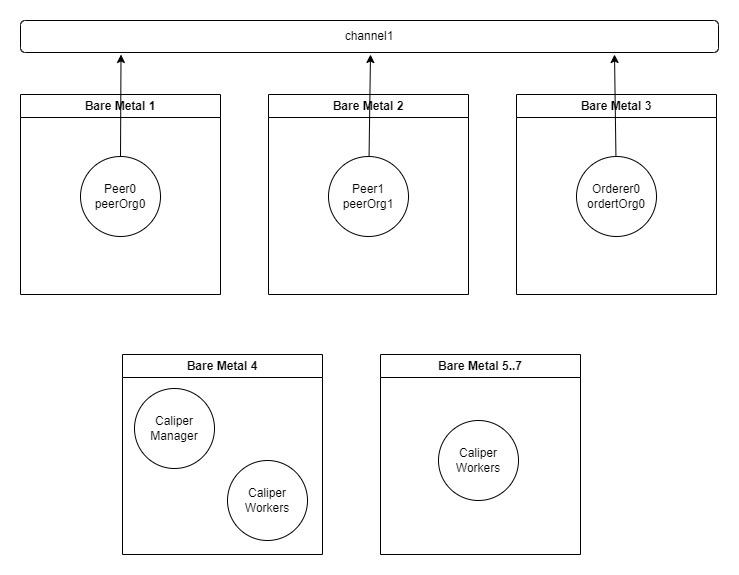
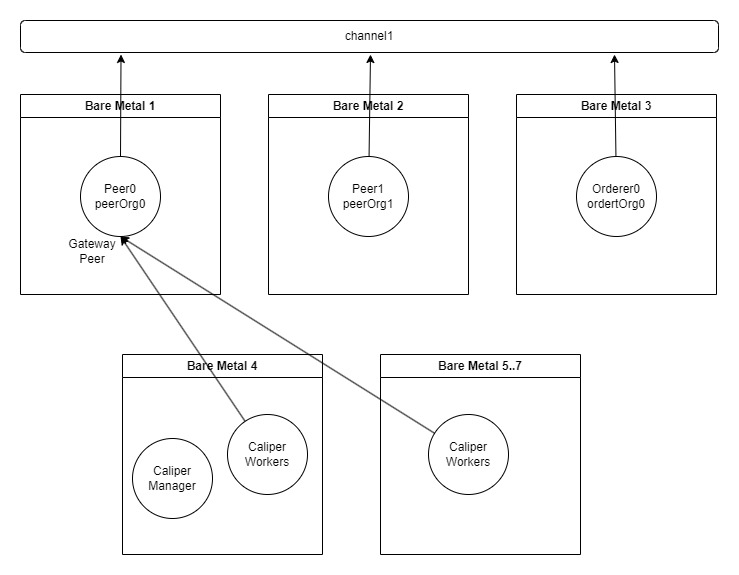
update topology diagram

diff --git a/docs/Performance/FabricPerformance.md b/docs/Performance/FabricPerformance.md
@@ -306,7 +306,7 @@ Hyperledger Fabric was deployed natively to 3 physical machines (ie the native b
 
 ### Load Generator
 
-Hyperledger Caliper 0.5.0 was used as the load generator and for the report output. Caliper was bound to `Fabric:2.4` which means it used the peer Gateway Service to invoke and evaluate transactions.
+Hyperledger Caliper 0.5.0 was used as the load generator and for the report output. Caliper was bound to `Fabric:2.4` which means it used the peer Gateway Service to invoke and evaluate transactions. All transactions were generated from the same organisation to it's gateway peer.
 
 The load itself was defined from fixed-asset in Hyperledger Caliper-Benchmarks.
 
@@ -338,6 +338,7 @@ In summary the following benchmarks are presented here:
 A Blind write is a transaction that performs a single write to a key regardless of whether that key exists and contains data. This is a `Create Asset` type of scenario.
 
 Caliper test configuration:
+
 - workers: 200
 - fixed-tps, tps: 3000
 
@@ -352,6 +353,7 @@ Caliper test configuration:
 #### Blind Write of a single key 1000 Byte Asset Size
 
 Caliper test configuration:
+
 - workers: 200
 - fixed-tps, tps: 3000
 
@@ -370,6 +372,7 @@ Here we see that we can achieve roughly the same throughput but latency increase
 This is a test where the transaction will randomly pick an already existing key with data, read it, then modify that key. The world state was loaded with 1 million assets for this test to reduce the chance of using the same key in two concurrent transactions resulting in MVCC_READ_CONFLICT validation errors. In this example the TPS rate was low enough and fortunate that no MVCC_READ_CONFLICT validation errors were received.
 
 Caliper test configuration:
+
 - workers: 200
 - fixed-tps, tps: 2550
 
@@ -386,6 +389,7 @@ Caliper test configuration:
 The above was repeated using a 1000 byte asset size.
 
 Caliper test configuration:
+
 - workers: 200
 - fixed-tps, tps: 1530
 
